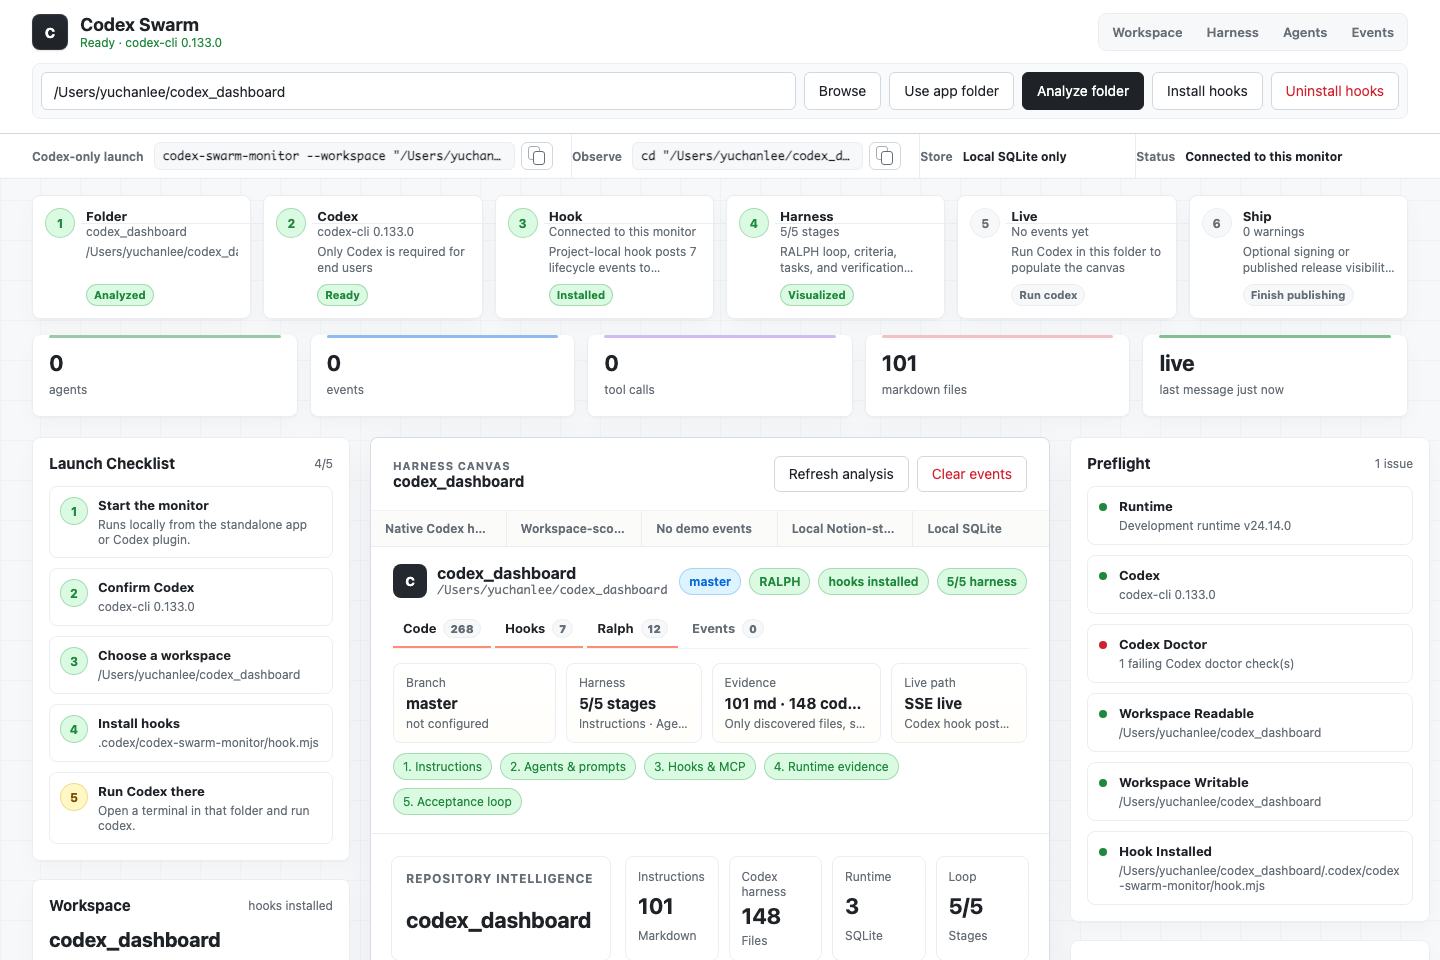
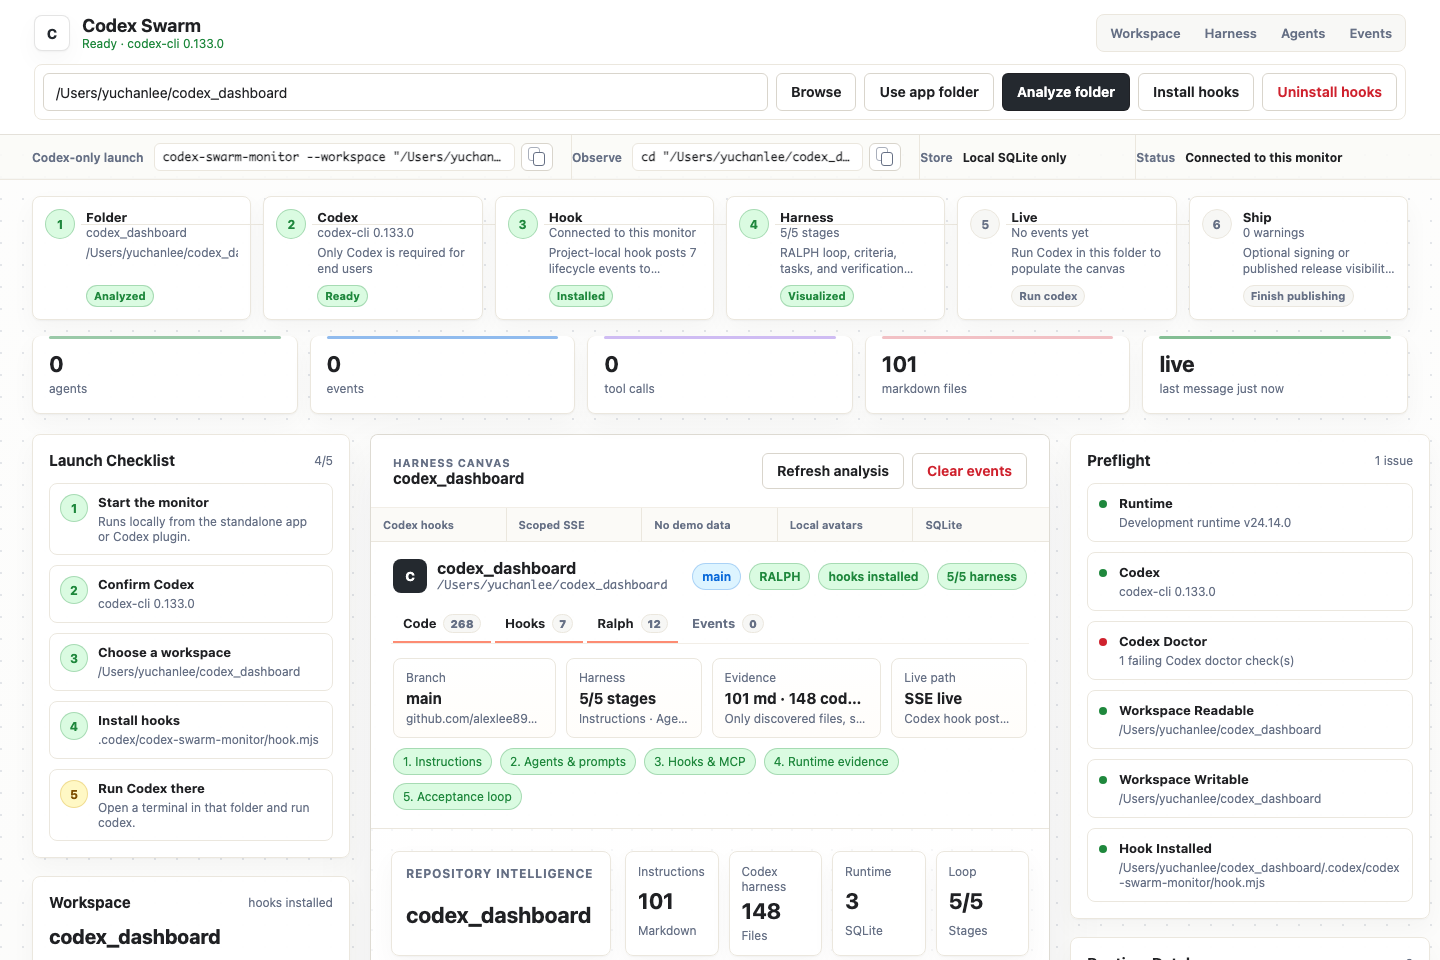
Polish canvas UI and fix release assets

diff --git a/apps/ui/styles.css b/apps/ui/styles.css
@@ -1,23 +1,25 @@
 :root {
   color-scheme: light;
-  --canvas: #f6f8fa;
-  --notebook: #ffffff;
+  --canvas: #f7f7f4;
+  --canvas-warm: #fbfaf7;
+  --notebook: #fffdfa;
   --paper: #ffffff;
-  --ink: #1f2328;
-  --muted: #656d76;
-  --faint: #8c959f;
-  --line: #d0d7de;
-  --soft-line: #eaeef2;
-  --hairline: #f0f2f4;
-  --wash: #f6f8fa;
-  --wash-strong: #eef4ff;
+  --ink: #202124;
+  --muted: #667085;
+  --faint: #98a2b3;
+  --line: #d9d5cc;
+  --soft-line: #ebe7de;
+  --hairline: #f2eee7;
+  --wash: #f7f7f5;
+  --wash-strong: #eef6ff;
   --warm: #fff8c5;
   --blue: #0969da;
   --green: #1f883d;
   --red: #cf222e;
   --purple: #8250df;
-  --shadow: 0 1px 2px rgba(31, 35, 40, 0.035), 0 8px 24px rgba(31, 35, 40, 0.026);
-  --deep-shadow: 0 16px 42px rgba(31, 35, 40, 0.064);
+  --shadow: 0 1px 2px rgba(32, 33, 36, 0.04), 0 10px 26px rgba(32, 33, 36, 0.035);
+  --deep-shadow: 0 24px 60px rgba(32, 33, 36, 0.075);
+  --inner-paper: inset 0 1px 0 rgba(255, 255, 255, 0.8);
   --sans: Inter, -apple-system, BlinkMacSystemFont, "Segoe UI", "Noto Sans KR", sans-serif;
   --mono: "SF Mono", Monaco, Menlo, Consolas, monospace;
 }
@@ -30,10 +32,10 @@ body {
   margin: 0;
   min-width: 360px;
   background:
-    linear-gradient(rgba(208, 215, 222, 0.18) 1px, transparent 1px),
-    linear-gradient(90deg, rgba(208, 215, 222, 0.14) 1px, transparent 1px),
+    radial-gradient(circle at 1px 1px, rgba(152, 162, 179, 0.26) 1px, transparent 0),
+    linear-gradient(180deg, rgba(255, 255, 255, 0.78), rgba(247, 247, 244, 0.94)),
     var(--canvas);
-  background-size: 40px 40px;
+  background-size: 22px 22px, 100% 100%;
   color: var(--ink);
   font-family: var(--sans);
   font-size: 14px;
@@ -45,11 +47,12 @@ input {
 }
 
 button {
-  background: var(--ink);
-  border: 1px solid var(--ink);
+  background: #24292f;
+  border: 1px solid rgba(32, 33, 36, 0.86);
   border-radius: 6px;
   color: #fff;
   cursor: pointer;
+  font-weight: 650;
   line-height: 1.15;
   min-height: 36px;
   padding: 0 14px;
@@ -86,13 +89,13 @@ button.danger {
 
 .topbar {
   align-items: center;
-  backdrop-filter: blur(20px);
-  background: rgba(255, 255, 255, 0.97);
-  border-bottom: 1px solid var(--line);
+  backdrop-filter: blur(24px);
+  background: rgba(255, 255, 255, 0.92);
+  border-bottom: 1px solid rgba(217, 213, 204, 0.72);
   display: grid;
   gap: 12px 18px;
   grid-template-columns: minmax(220px, max-content) minmax(0, 1fr);
-  padding: 13px 32px 14px;
+  padding: 14px 34px;
   position: sticky;
   top: 0;
   z-index: 10;
@@ -106,10 +109,11 @@ button.danger {
 
 .brand-mark {
   align-items: center;
-  background: linear-gradient(180deg, #24292f, #1f2328);
+  background: #ffffff;
+  border: 1px solid rgba(32, 33, 36, 0.12);
   border-radius: 8px;
-  box-shadow: inset 0 0 0 1px rgba(255, 255, 255, 0.09), 0 1px 2px rgba(31, 35, 40, 0.12);
-  color: white;
+  box-shadow: var(--shadow);
+  color: #24292f;
   display: flex;
   font-weight: 800;
   height: 36px;
@@ -130,7 +134,7 @@ h1 {
 
 .repo-nav {
   align-items: center;
-  background: var(--wash);
+  background: rgba(247, 247, 245, 0.88);
   border: 1px solid var(--soft-line);
   border-radius: 8px;
   display: flex;
@@ -166,9 +170,10 @@ h1 {
 }
 
 .workspace-picker {
-  background: rgba(246, 248, 250, 0.76);
+  background: rgba(255, 255, 255, 0.84);
   border: 1px solid var(--soft-line);
   border-radius: 8px;
+  box-shadow: var(--inner-paper);
   display: grid;
   gap: 8px;
   grid-column: 1 / -1;
@@ -177,7 +182,7 @@ h1 {
 }
 
 .workspace-picker input {
-  background: var(--paper);
+  background: #fff;
   border: 1px solid var(--line);
   border-radius: 6px;
   color: var(--ink);
@@ -195,8 +200,8 @@ h1 {
 }
 
 .launch-strip {
-  background: rgba(255, 255, 255, 0.94);
-  border-bottom: 1px solid var(--soft-line);
+  background: rgba(251, 250, 247, 0.88);
+  border-bottom: 1px solid rgba(235, 231, 222, 0.9);
   display: grid;
   gap: 0;
   grid-template-columns: minmax(420px, 1.55fr) minmax(260px, 1fr) minmax(170px, 0.62fr) minmax(220px, 0.78fr);
@@ -204,7 +209,7 @@ h1 {
 }
 
 .repo-command-strip {
-  box-shadow: inset 0 -1px 0 rgba(31, 35, 40, 0.02);
+  box-shadow: inset 0 -1px 0 rgba(32, 33, 36, 0.025);
 }
 
 .launch-strip div {
@@ -247,7 +252,7 @@ h1 {
 }
 
 .launch-strip code {
-  background: var(--wash);
+  background: #ffffff;
   border: 1px solid var(--soft-line);
   border-radius: 6px;
   font-family: var(--mono);
@@ -318,10 +323,10 @@ h1 {
 
 .lifecycle-step {
   align-items: flex-start;
-  background: rgba(255, 255, 255, 0.96);
+  background: rgba(255, 255, 255, 0.94);
   border: 1px solid var(--soft-line);
   border-radius: 8px;
-  box-shadow: var(--shadow);
+  box-shadow: var(--shadow), var(--inner-paper);
   display: grid;
   gap: 11px;
   grid-template-columns: 30px minmax(0, 1fr);
@@ -438,17 +443,17 @@ h1 {
 .status-strip div,
 .panel,
 .canvas-panel {
-  background: rgba(255, 255, 255, 0.98);
+  background: rgba(255, 255, 255, 0.96);
   border: 1px solid var(--soft-line);
   border-radius: 8px;
-  box-shadow: var(--shadow);
+  box-shadow: var(--shadow), var(--inner-paper);
 }
 
 .status-strip div {
   border-top: 0;
   display: grid;
   gap: 2px;
-  min-height: 82px;
+  min-height: 78px;
   padding: 15px 16px;
   position: relative;
 }
@@ -546,7 +551,7 @@ h1 {
 }
 
 .canvas-panel {
-  border-color: rgba(208, 215, 222, 0.86);
+  border-color: rgba(217, 213, 204, 0.86);
   box-shadow: var(--deep-shadow);
   overflow: hidden;
   padding: 0;
@@ -561,29 +566,28 @@ h1 {
 }
 
 .canvas-toolbar {
-  background: rgba(255, 255, 255, 0.98);
+  background: rgba(255, 255, 255, 0.96);
   border-bottom: 1px solid var(--hairline);
   padding: 18px 22px;
 }
 
 .canvas-proof-strip {
   align-items: center;
-  background: #fbfbfa;
+  background: #fbfaf7;
   border-bottom: 1px solid var(--soft-line);
-  display: grid;
+  display: flex;
+  flex-wrap: wrap;
   gap: 0;
-  grid-template-columns: repeat(5, minmax(0, 1fr));
 }
 
 .canvas-proof-strip span {
   border-right: 1px solid var(--soft-line);
   color: var(--muted);
-  font-size: 12px;
+  flex: 1 1 132px;
+  font-size: 11px;
   font-weight: 650;
   min-width: 0;
-  overflow: hidden;
-  padding: 10px 14px;
-  text-overflow: ellipsis;
+  padding: 10px 12px;
   white-space: nowrap;
 }
 
@@ -766,7 +770,7 @@ h1 {
 }
 
 .repo-context-item {
-  background: linear-gradient(180deg, #ffffff, #fffefa);
+  background: linear-gradient(180deg, #ffffff, #fffdfa);
   border: 1px solid var(--soft-line);
   border-radius: 8px;
   display: grid;
@@ -1009,10 +1013,10 @@ h1 {
 
 .harness-canvas {
   background:
-    linear-gradient(rgba(208, 215, 222, 0.16) 1px, transparent 1px),
-    linear-gradient(90deg, rgba(208, 215, 222, 0.13) 1px, transparent 1px),
+    radial-gradient(circle at 1px 1px, rgba(152, 162, 179, 0.28) 1px, transparent 0),
+    linear-gradient(180deg, rgba(255, 255, 255, 0.78), rgba(255, 253, 248, 0.56)),
     var(--notebook);
-  background-size: 28px 28px;
+  background-size: 20px 20px, 100% 100%;
   border: 0;
   border-bottom: 1px solid var(--hairline);
   border-radius: 0;
@@ -1024,7 +1028,7 @@ h1 {
 
 .harness-canvas::before {
   background:
-    linear-gradient(180deg, rgba(255, 255, 255, 0.88), rgba(255, 253, 248, 0.58));
+    linear-gradient(180deg, rgba(255, 255, 255, 0.68), rgba(255, 253, 248, 0.38));
   content: "";
   inset: 0;
   pointer-events: none;
@@ -1042,9 +1046,10 @@ h1 {
 }
 
 .canvas-board-header > div:first-child {
-  background: rgba(255, 255, 255, 0.97);
+  background: rgba(255, 255, 255, 0.94);
   border: 1px solid var(--soft-line);
   border-radius: 8px;
+  box-shadow: var(--shadow);
   display: grid;
   gap: 7px;
   min-height: 86px;
@@ -1077,9 +1082,10 @@ h1 {
 }
 
 .canvas-board-stats article {
-  background: rgba(255, 255, 255, 0.97);
+  background: rgba(255, 255, 255, 0.94);
   border: 1px solid var(--soft-line);
   border-radius: 8px;
+  box-shadow: var(--shadow);
   display: grid;
   gap: 4px;
   min-height: 86px;
@@ -1159,9 +1165,10 @@ h1 {
 }
 
 .ralph-stage {
-  background: rgba(255, 255, 255, 0.97);
+  background: rgba(255, 255, 255, 0.95);
   border: 1px solid var(--soft-line);
   border-radius: 8px;
+  box-shadow: var(--shadow);
   display: grid;
   gap: 9px;
   grid-template-columns: 28px minmax(0, 1fr);
@@ -1214,9 +1221,10 @@ h1 {
 }
 
 .ralph-evidence section {
-  background: rgba(255, 255, 255, 0.97);
+  background: rgba(255, 255, 255, 0.95);
   border: 1px solid var(--soft-line);
   border-radius: 8px;
+  box-shadow: var(--shadow);
   min-width: 0;
   padding: 12px;
 }
@@ -1299,7 +1307,7 @@ h1 {
 }
 
 .harness-detail {
-  background: rgba(255, 255, 255, 0.97);
+  background: rgba(255, 255, 255, 0.95);
   border: 1px solid var(--soft-line);
   border-radius: 8px;
   display: grid;
@@ -1324,7 +1332,7 @@ h1 {
   background: linear-gradient(180deg, rgba(255, 255, 255, 0.98), rgba(255, 253, 248, 0.96));
   border: 1px solid var(--line);
   border-radius: 8px;
-  box-shadow: 0 1px 1px rgba(31, 35, 40, 0.035);
+  box-shadow: var(--shadow);
   min-height: 122px;
   padding: 13px;
   position: relative;
@@ -1377,7 +1385,8 @@ h1 {
 
 .canvas-caption {
   align-items: center;
-  background: rgba(255, 255, 255, 0.9);
+  backdrop-filter: blur(18px);
+  background: rgba(255, 255, 255, 0.86);
   border-top: 1px solid var(--soft-line);
   bottom: 0;
   display: flex;
@@ -1705,10 +1714,10 @@ h1 {
 }
 
 .agent-card {
-  background: linear-gradient(180deg, #ffffff, #fffefa);
+  background: linear-gradient(180deg, #ffffff, #fffdfa);
   border: 1px solid var(--line);
   border-radius: 8px;
-  box-shadow: 0 1px 2px rgba(31, 35, 40, 0.04);
+  box-shadow: var(--shadow);
   display: grid;
   gap: 12px;
   grid-template-columns: 68px minmax(0, 1fr);
@@ -1744,10 +1753,10 @@ h1 {
 }
 
 .avatar {
-  background: #fffefa;
-  border: 1px solid rgba(31, 35, 40, 0.14);
-  border-radius: 14px;
-  box-shadow: 0 8px 20px rgba(31, 35, 40, 0.075);
+  background: #fffdfa;
+  border: 1px solid rgba(32, 33, 36, 0.12);
+  border-radius: 16px;
+  box-shadow: 0 10px 24px rgba(32, 33, 36, 0.08);
   height: 64px;
   object-fit: cover;
   width: 64px;

diff --git a/apps/ui/index.html b/apps/ui/index.html
@@ -117,11 +117,11 @@
             </div>
           </div>
           <div class="canvas-proof-strip" aria-label="production proof points">
-            <span>Native Codex hooks</span>
-            <span>Workspace-scoped SSE</span>
-            <span>No demo events</span>
-            <span>Local Notion-style avatars</span>
-            <span>Local SQLite</span>
+            <span aria-label="Native Codex hooks">Codex hooks</span>
+            <span aria-label="Workspace-scoped SSE">Scoped SSE</span>
+            <span aria-label="No demo events">No demo data</span>
+            <span aria-label="Local Notion-style avatars">Local avatars</span>
+            <span aria-label="Local SQLite">SQLite</span>
           </div>
           <section id="repo-context" class="repo-context" aria-label="workspace evidence summary"></section>
           <div id="harness-canvas" class="harness-canvas"></div>